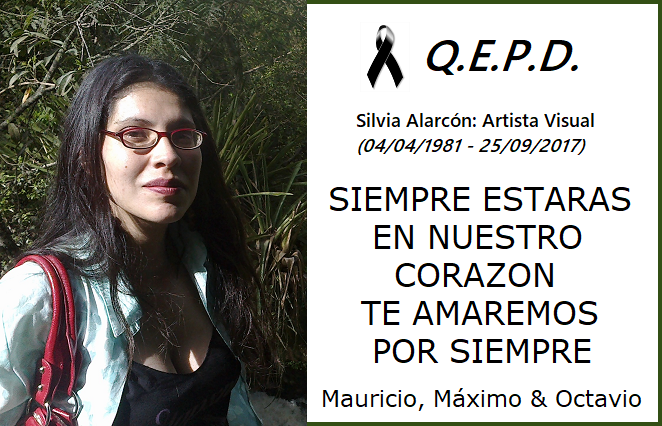
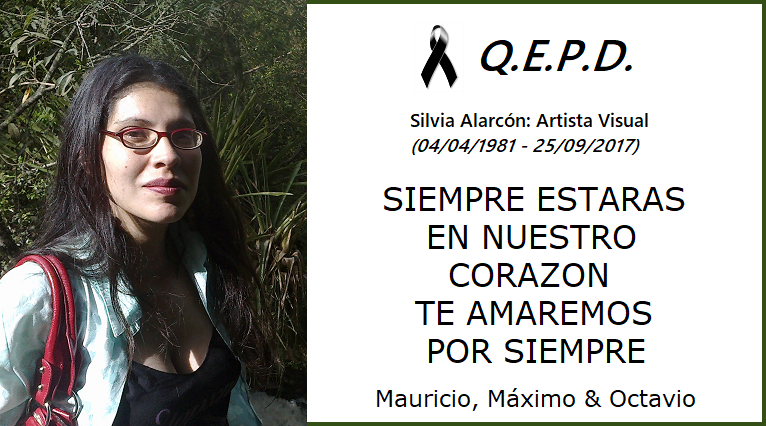
Add files via upload

diff --git a/index.html b/index.html
@@ -243,20 +243,19 @@ text-decoration:none;
 <center><h1>Homenaje a Silvia Alarcón</h1></center>
 <div class="container-fluid">
   <div class="item beige">
-	<center>
-	    <!---  width="400" height="257" --->
+	<!--<center>
+	    <!---  width="400" height="257" ---
 <iframe width="90%" height="350" src="http://www.youtube.com/embed/_xVav0u4Zdw" frameborder="0" allowfullscreen></iframe>
-	</center>
+	</center>-->
+<center><img src="Sil_FOREVER.png" width="90%" height=""></center>
 	</div>
   <div class="item beige">
-	<center>
-	<img src="Sil_FOREVER.png" width="90%" height="">
-	</center>
+<center><img src="SilHeavenParadise.jpg" width="90%" height=""></center>
 	</div>
 </div>
-<center>
+<!--<center>
 <img src="SilHeavenParadise.jpg" width="77%" height="">
-</center>
+</center>-->
 <div class="copyright text-center">
 		<center><br>
                     Powered By <a href="https://maurieb83.github.io/mebya/"><i>MEBYA</i></a> 
